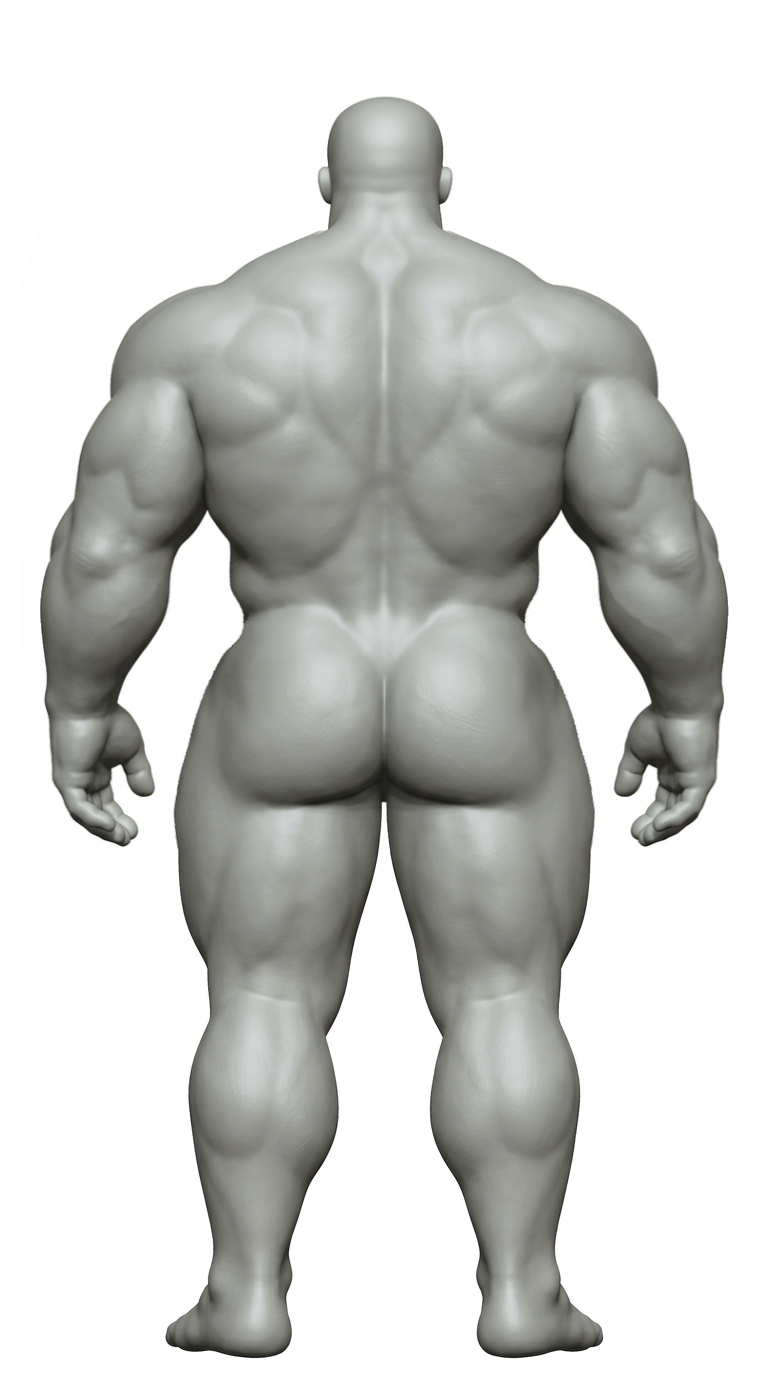
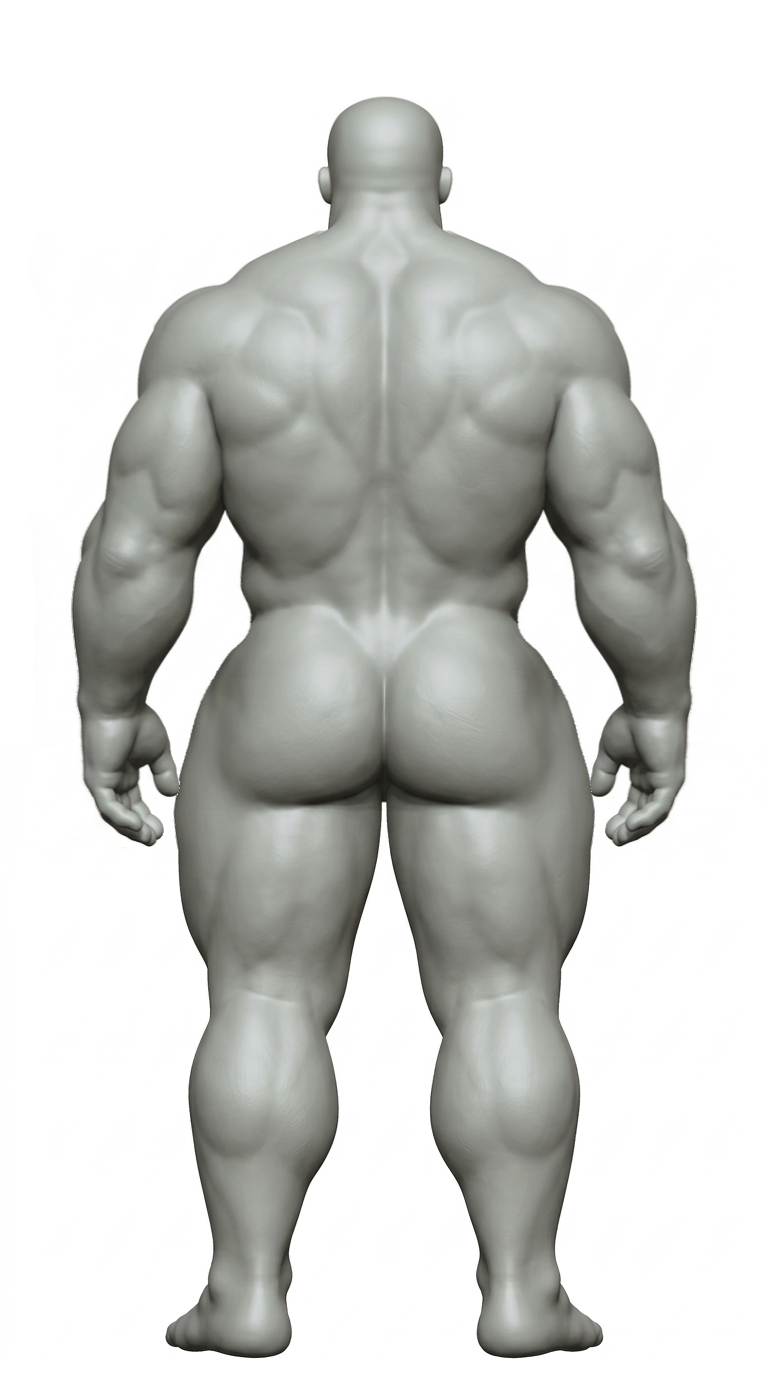
근육 그림 프롬프트: 황금비 — 어깨 −10% · 팔 −6% · 전거근 · 허리 가늘게
Claude-Session: https://claude.ai/code/session_01BoBwgsWhq9LWGdXHzThg1i

diff --git a/문서/자료/근육그림/대표칸/황금비맞추기.py b/문서/자료/근육그림/대표칸/황금비맞추기.py
@@ -1,0 +1,46 @@
+# 황금비 맞추기 (홍겸 님 10-10 "짧뚱"): 어깨 x0.90 (키/어깨 ≈ φ²) · 팔 굵기 x0.94 (이두 = 허벅지/φ)
+# 전거근(갈비 옆) x0.92 · 허리 x0.95 · 머리 · 목 · 골반 · 다리 그대로. 입력은 상체 5% 줄인 비율기준 그림.
+import sys, numpy as np
+from PIL import Image; from scipy import ndimage
+C=384
+SH, ARM, RIB, WAIST = 0.90, 0.94, 0.92, 0.95
+NECK0, NECK1 = 262, 330      # 이 사이에서 1.0 → SH (목 · 머리는 그대로)
+SPLIT = 515                  # 팔이 몸통에서 떨어지는 줄
+WY = 623                     # 허리 가장 가는 줄
+HIPY = 700                   # 여기부터 골반 · 다리 그대로
+def segs(row):
+    x=np.where(row)[0]
+    if len(x)==0: return []
+    s=[];st=x[0];pv=x[0]
+    for v in x[1:]:
+        if v>pv+1: s.append((st,pv)); st=v
+        pv=v
+    s.append((st,pv)); return [(p,q) for p,q in s if q-p>2]
+def lerp(y,y0,y1,a,b): return a if y<=y0 else b if y>=y1 else a+(b-a)*(y-y0)/(y1-y0)
+def torso_f(y):
+    if y<NECK0: return 1.0
+    if y<SPLIT: return lerp(y,NECK0,NECK1,1.0,SH)
+    if y<WY: return lerp(y,SPLIT,SPLIT+45,SH,RIB) if y<SPLIT+45 else lerp(y,SPLIT+45,WY,RIB,WAIST)
+    return lerp(y,WY,HIPY,WAIST,1.0)
+def run(src,dst):
+    a=np.asarray(Image.open(src).convert('RGB')).astype(float)
+    m=ndimage.binary_fill_holes(np.asarray(Image.open(src).convert('L'))<240)
+    H,W=m.shape; xs=np.arange(W); out=a.copy()
+    for y in range(NECK0,880):
+        sg=segs(m[y]); f=torso_f(y)
+        I=[s for s in sg if abs((s[0]+s[1])/2-C)<=210]; L=[s for s in sg if (s[0]+s[1])/2<C-210]; R=[s for s in sg if (s[0]+s[1])/2>C+210]
+        if L and R and I:
+            def arm(p,q):
+                cm=(p+q)/2; nc=C+(cm-C)*SH; hw=(q-p)/2*lerp(y,SPLIT,SPLIT+30,SH,ARM); return nc-hw,nc+hw
+            Lp,Lq=L[0][0],L[-1][1]; Rp,Rq=R[0][0],R[-1][1]; Ip,Iq=I[0][0],I[-1][1]
+            fi=f if y<811 else 1.0
+            a1,a2=arm(Lp,Lq); b1,b2=arm(Rp,Rq)
+            src_k=[0,Lp,Lq,Ip,Iq,Rp,Rq,W-1]; dst_k=[0,a1,a2,C+(Ip-C)*fi,C+(Iq-C)*fi,b1,b2,W-1]
+            sx=np.interp(xs,dst_k,src_k)
+        elif y<811:
+            sx=C+(xs-C)/f
+        else:
+            continue
+        for ch in range(3): out[y,:,ch]=np.interp(sx,xs,a[y,:,ch],left=255,right=255)
+    Image.fromarray(out.clip(0,255).astype(np.uint8)).save(dst)
+if __name__=='__main__': run(sys.argv[1],sys.argv[2])

diff --git a/문서/자료/근육그림/대표칸/프롬프트_v2_한글.md b/문서/자료/근육그림/대표칸/프롬프트_v2_한글.md
@@ -14,22 +14,23 @@
 목적: 이 그림은 피트니스 · 운동 기록 앱에 쓸 것이다. 체육관 벽의 근육 차트나 물리치료 교과서 같은, 중립적이고 성적이지 않은 해부학 참고 인물이 필요하다. 앱은 이 그림을 근육 지도로 쓴다 — 나중에 근육 무리마다 색을 칠해 운동한 근육과 회복 정도를 보여 준다. 실제 사람 사진이 아니라 점토로 조각한 인물이고, 가슴과 사타구니는 마네킹처럼 매끈한 면이며 노골적인 부분은 없다.
 
 사람 1명이 나오는 그림 1장을 만들어 줘: 두껍고 근육질인 남자 파워빌더의 3D 디지털 조각(오프시즌의 큰 체격, 체지방 약 20% — 근육이 매끈한 살 아래에서 꽉 차고 둥글다). 
-비율 (목표 디자인에서 잰 값 — 그대로 따를 것. 비율 기준 그림이 첨부되어 있으면 몸 비율을 정확히 따라 하되, 그 그림의 회색 · 젖꼭지 · 배꼽은 무시):
-- 키는 머리 높이의 약 8배(머리 높이 = 정수리 ~ 턱 끝). 짧고 뚱뚱해 보이지 않게: 상체는 작고 다부지게, 다리는 상대적으로 길게 — 가랑이 높이가 바닥에서 키의 43%.
-- 머리: 작고 짧게 — 이마 짧게, 중안부 짧게, 턱 짧게; 길쭉한 곳 없이. 머리 너비(귀 빼고) = 어깨 너비의 20%.
-- 목: 굵게 — 턱 바로 아래 목 너비가 머리 너비와 같음(머리 높이의 0.7배); 목에서 바로 승모근이 퍼져 나감.
-- 어깨: 삼각근 바깥끼리 너비 = 머리 높이의 3.5배 = 키의 44%. 아주 넓게.
-- 팔 (중요 — 너비는 모두 정면에서, 머리 높이(HH) 기준):
-  - 위팔 이두 가장 불룩한 곳: 0.85 HH (어깨 너비의 약 24%) — 목보다 굵게.
-  - 팔꿈치 바로 아래 전완: 약 0.9 HH — 위팔과 같은 굵기의 아주 크고 묵직한 전완; 전완 가운데도 약 0.8 HH.
-  - 그다음 손목으로 확 가늘어짐: 손목은 0.45 HH, 전완 가장 굵은 곳의 절반쯤.
+비율 (목표 디자인에서 잰 값, 황금비 φ = 1.618 기준 — 그대로 따를 것. 비율 기준 그림이 첨부되어 있으면 몸 비율을 정확히 따라 하되, 그 그림의 회색 · 젖꼭지 · 배꼽은 무시):
+- 키는 머리 높이의 약 8배(머리 높이 = HH = 정수리 ~ 턱 끝). 짧고 뚱뚱해 보이지 않게: 다부진 상체에 상대적으로 긴 다리 — 가랑이 높이가 바닥에서 키의 43%.
+- 머리: 작고 짧게 — 이마 짧게, 중안부 짧게, 턱 짧게; 길쭉한 곳 없이. 머리 너비(귀 빼고) = 어깨 너비의 23%.
+- 목: 굵게 — 턱 바로 아래 목 너비가 머리 너비와 같음(0.7 HH); 목에서 바로 승모근이 퍼져 나감.
+- 어깨: 삼각근 바깥끼리 너비 = 3.15 HH = 키의 39% (키 ÷ 어깨 너비 ≈ φ² = 2.6). 넓게, 하지만 이보다 넓지 않게.
+- 팔 (중요 — 너비는 모두 정면에서, HH 기준):
+  - 위팔 이두 가장 불룩한 곳: 0.8 HH = 허벅지 너비 ÷ φ.
+  - 팔꿈치 바로 아래 전완: 이것도 약 0.8 HH — 위팔과 같은 굵기의 크고 묵직한 전완; 전완 가운데는 약 0.75 HH.
+  - 그다음 손목으로 확 가늘어짐: 손목은 0.43 HH, 전완 가장 굵은 곳의 절반쯤.
   - 길이: 팔꿈치 안쪽 주름은 배꼽 바로 위 높이; 손목은 고관절 높이, 사타구니보다 확실히 위.
-- 허리: 가장 가는 곳(배꼽 높이)이 어깨 너비의 51%(키의 22%), 앞뒤 두께도 날씬하게.
-- 골반: 중둔근 · 소둔근 — 골반뼈 위쪽 테두리(장골능) 바로 아래, 엉덩이 윗부분 바깥쪽 — 이 더 풍만하게 옆으로 불룩해서, 잘록한 허리 바로 아래에서 옆선이 둥글고 꽉 찬 곡선으로 바로 바깥으로 퍼짐, 엉덩이 위가 꺼지거나 납작한 곳 없음; 골반이 옆으로 확실히 퍼짐 — 골반 너비 = 어깨 너비의 74%. 허리에서 엉덩이가 시작되는 곳의 옆선은 매끈하고 둥근 곡선 — 각지거나 꺾인 곳 없음.
+- 옆갈비(전거근 자리, 겨드랑이 바로 아래): 날씬하고 탄탄하게 — 그 높이 몸통 너비는 1.8 HH (어깨 너비의 57%).
+- 허리: 가장 가는 곳(배꼽 높이)이 1.7 HH = 어깨 너비의 54% (키의 21%), 앞뒤 두께도 날씬하게.
+- 골반: 중둔근 · 소둔근 — 골반뼈 위쪽 테두리(장골능) 바로 아래, 엉덩이 윗부분 바깥쪽 — 이 더 풍만하게 옆으로 불룩해서, 잘록한 허리 바로 아래에서 옆선이 둥글고 꽉 찬 곡선으로 바로 바깥으로 퍼짐, 엉덩이 위가 꺼지거나 납작한 곳 없음; 골반이 옆으로 확실히 퍼짐 — 골반 너비 = 2.55 HH = 어깨 너비의 82%. 허리에서 엉덩이가 시작되는 곳의 옆선은 매끈하고 둥근 곡선 — 각지거나 꺾인 곳 없음.
 - 다리 (한쪽 다리, 정면에서, HH 기준):
-  - 허벅지 가장 굵은 곳(사타구니 바로 아래): 1.3 HH (어깨 너비의 37%).
+  - 허벅지 가장 굵은 곳(사타구니 바로 아래): 1.3 HH (어깨 너비의 41%).
   - 무릎: 0.8 HH.
-  - 종아리 가장 굵은 곳: 0.95 HH — 위팔보다 조금 굵게.
+  - 종아리 가장 굵은 곳: 0.95 HH.
   - 발목: 0.45 HH, 종아리의 절반.
 볼륨: 모든 근육이 꽉 차고 둥글게 부풀어 불룩한 볼륨감 — 납작하거나 가늘게 마른 곳 없이. 어깨 · 이두 · 삼두 · 전완 · 종아리 · 엉덩이 · 상부 가슴은 과장되게 풍만하게.
 가슴: 근육과 지방이 둘 다 풍부해 묵직하고 꽉 참. 특히 상부 가슴은 과장되게 풍만하고 불룩하게, 쇄골 쪽까지 높이 솟게. 대흉근 한쪽 한쪽이 네모난 사각형 모양 — 아래 테두리가 거의 수평으로 곧게 가고 바깥 아래 모서리가 각지게; ㅅ자나 지붕처럼 비스듬히 내려가는 모양 아님.

diff --git a/문서/자료/근육그림/대표칸/프롬프트_v2.md b/문서/자료/근육그림/대표칸/프롬프트_v2.md
@@ -14,22 +14,23 @@
 PURPOSE: This image is for a fitness / workout-tracking app. I need a neutral, non-sexual anatomical reference figure — like a muscle chart on a gym wall or in a physiotherapy textbook. The app will use it as a muscle map: each muscle group is later colored to show which muscles a workout trained and how recovered they are. It is a sculpted clay figure, not a photo of a real person, with smooth mannequin-like chest and groin surfaces and no explicit details.
 
 Create ONE image of ONE figure: a 3D digital sculpt of a thick, muscular male powerbuilder (bulky off-season build, about 20% body fat, so the muscles are full and rounded under a smooth layer).
-PROPORTIONS (measured from the target design — follow closely; if the proportion reference image is attached, copy its body proportions exactly, but ignore its gray color, nipples and navel):
-- Height about 8 head heights (head height = top of skull to chin). NOT short and stocky: the upper body is compact and the legs are relatively long — the crotch is at 43% of body height, measured from the floor.
-- Head: compact and short — short forehead, short mid-face, short chin; nothing long or elongated. Head width (without ears) = 20% of shoulder width.
-- Neck: thick — just below the jaw it is as wide as the head (0.7 head heights); the trapezius flares out from it immediately.
-- Shoulders: width across the deltoids = 3.5 head heights = 44% of body height. Very broad.
-- ARMS (important — all widths are seen from the front, measured in head heights = HH):
-  - Upper arm at the biceps peak: 0.85 HH wide (about 24% of shoulder width) — thicker than the neck.
-  - Forearm just below the elbow: about 0.9 HH — AS THICK AS THE UPPER ARM, a huge, heavy forearm; still about 0.8 HH at mid-forearm.
-  - Then a strong taper to the wrist: wrist only 0.45 HH, about half the forearm's widest point.
+PROPORTIONS (measured from the target design, built on the golden ratio φ = 1.618 — follow closely; if the proportion reference image is attached, copy its body proportions exactly, but ignore its gray color, nipples and navel):
+- Height about 8 head heights (head height = HH = top of skull to chin). NOT short and stocky: a compact upper body on relatively long legs — the crotch is at 43% of body height, measured from the floor.
+- Head: compact and short — short forehead, short mid-face, short chin; nothing long or elongated. Head width (without ears) = 23% of shoulder width.
+- Neck: thick — just below the jaw it is as wide as the head (0.7 HH); the trapezius flares out from it immediately.
+- Shoulders: width across the deltoids = 3.15 HH = 39% of body height (height ÷ shoulder width ≈ φ² = 2.6). Broad, but not wider than this.
+- ARMS (important — all widths are seen from the front, in HH):
+  - Upper arm at the biceps peak: 0.8 HH wide = thigh width ÷ φ.
+  - Forearm just below the elbow: also about 0.8 HH — AS THICK AS THE UPPER ARM, a big, heavy forearm; about 0.75 HH at mid-forearm.
+  - Then a strong taper to the wrist: wrist only 0.43 HH, about half the forearm's widest point.
   - Lengths: elbow crease just above navel height; wrist at hip-joint height, well above the crotch.
-- Waist: at its narrowest point (navel level) only 51% of shoulder width (22% of body height), slimmer front to back as well.
-- Hips: the gluteus medius and minimus — the upper outer part of the buttocks, just below the top rim of the pelvis (iliac crest) — are extra full and bulge out to the sides, so right below the narrow waist the outline curves outward in a full, round arc, with no pinched or flat area above the buttocks; the hips flare out clearly to the sides — hip width = 74% of shoulder width. Where the buttocks start below the waist, the outline is a smooth, round arc — no angular corner or sharp bend.
+- Side ribs (serratus area, just below the armpits): slim and tight — torso width there only 1.8 HH (57% of shoulder width).
+- Waist: at its narrowest point (navel level) 1.7 HH = 54% of shoulder width (21% of body height), slim front to back as well.
+- Hips: the gluteus medius and minimus — the upper outer part of the buttocks, just below the top rim of the pelvis (iliac crest) — are extra full and bulge out to the sides, so right below the narrow waist the outline curves outward in a full, round arc, with no pinched or flat area above the buttocks; the hips flare out clearly to the sides — hip width = 2.55 HH = 82% of shoulder width. Where the buttocks start below the waist, the outline is a smooth, round arc — no angular corner or sharp bend.
 - LEGS (one leg, seen from the front, in HH):
-  - Thigh at its widest (just below the crotch): 1.3 HH (37% of shoulder width).
+  - Thigh at its widest (just below the crotch): 1.3 HH (41% of shoulder width).
   - Knee: 0.8 HH.
-  - Calf at its widest: 0.95 HH — a little thicker than the upper arm.
+  - Calf at its widest: 0.95 HH.
   - Ankle: 0.45 HH, half of the calf.
 VOLUME: every muscle bulges with full, round, inflated volume — nothing flat or stringy. Exaggerate the fullness of these: shoulders, biceps, triceps, forearms, calves, glutes and the upper chest.
 CHEST: rich in both muscle and fat, heavy and full; the upper chest especially is exaggeratedly full and bulging, rising high toward the collarbone. Each pectoral has a SQUARE, boxy shape: its lower edge runs almost horizontally straight across with a squared outer-lower corner — not a sloping V or roof shape.

diff --git a/문서/작업일지.md b/문서/작업일지.md
@@ -89,3 +89,4 @@
 - 10-10 홍겸 님: 영어판의 제목 · 설명은 한글로(상자 안 프롬프트만 영어) · 09 전신 앞 대각선(오른쪽 앞 45°) · 10 전신 뒤 대각선(오른쪽 뒤 45°) 추가
 - 10-10 홍겸 님: 제미나이 1차 결과 색이 진함(잰 값: 중간 톤 #CABBB2 · 목표 #F3EAE4) → 밝기 규칙(중간 톤 #F3EAE4 · 밝은 곳 #FBF8F6 · 그림자 #DDD0C7 보다 밝게 · 경계 홈만 진하게) · 앞뒤 나란히 3명 그린 것 → 한 방향만 강조
 - 10-10 홍겸 님: 제미나이 결과 짧뚱 → 상체(가랑이 위 몸통 · 팔 · 목 · 머리) 가로 · 세로 5% 줄임(상체줄이기.py) · 사타구니 볼록 → 기준 그림에서 메움(사타구니메우기.py) + 프롬프트 "완전히 평평" · 새 잰 값: 8등신 · 가랑이 = 바닥에서 키 43% · 어깨 = 키 44% · 골반 = 어깨 74% · 전완 0.9 · 허벅지 1.3 · 무릎 0.8 · 종아리 0.95 HH
+- 10-10 홍겸 님: 아직 짧뚱 → 황금비로 맞춤(황금비맞추기.py): 어깨 −10%(키 ÷ 어깨 2.54 ≈ φ²) · 팔 −6%(이두 = 허벅지 ÷ φ) · 전거근(옆갈비) −8% · 허리 −5% · 머리 · 골반 · 다리 그대로 → 어깨 3.15 HH(키 39%) · 이두 0.8 · 전완 0.8 · 옆갈비 1.8 · 허리 1.7 · 골반 2.55 HH(어깨 82%)
